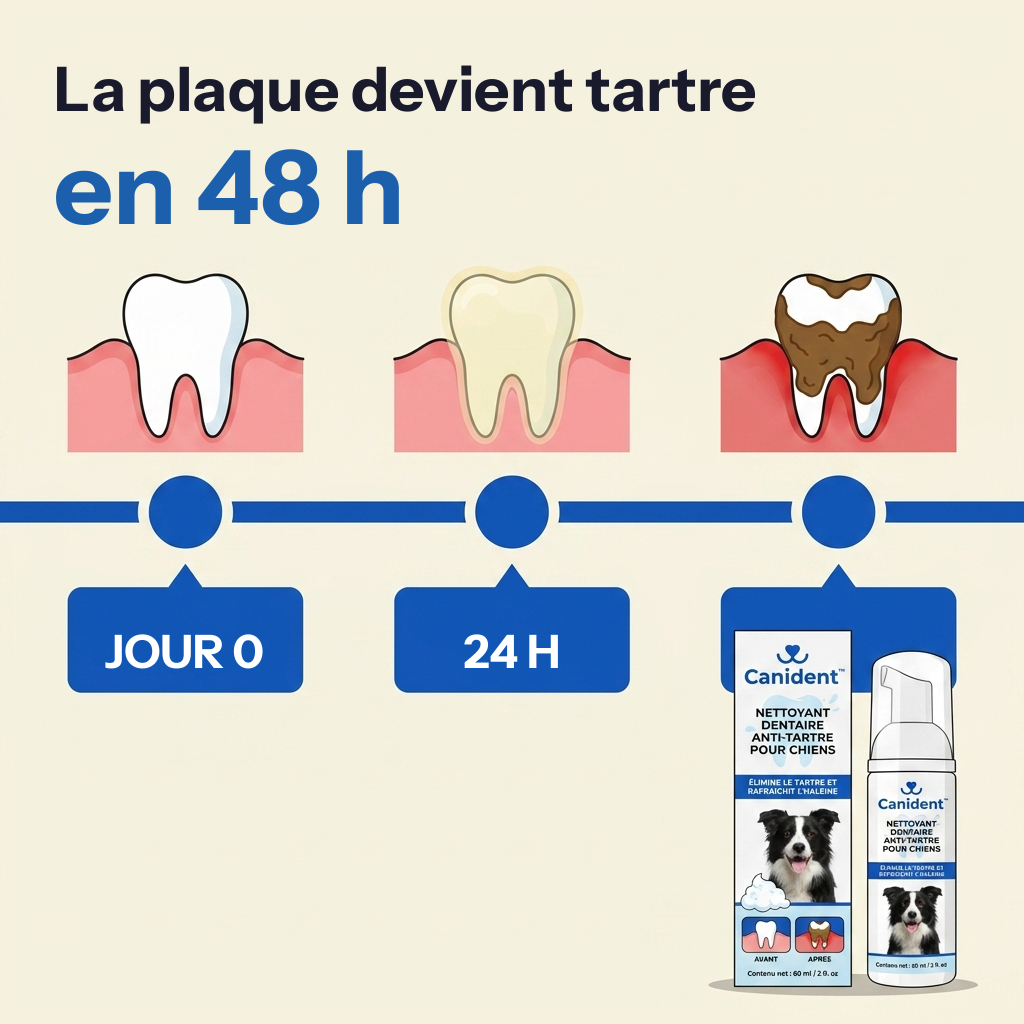
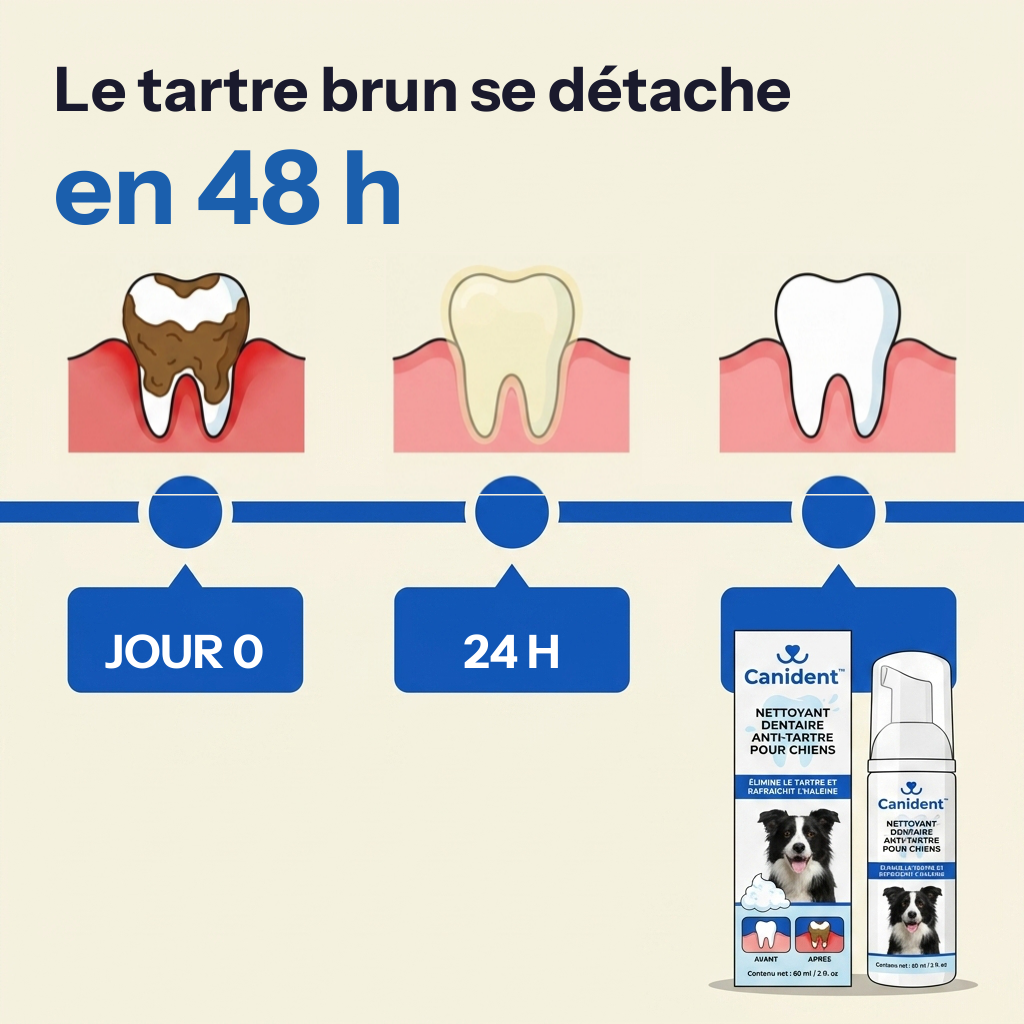
static-remix: check which way a sequence runs, not just its labels
A three-stage timeline shipped showing a dog's tooth getting steadily worse — clean, then
filmed, then heavily encrusted — under JOUR 0 / 24 H / 48 H, with the product pack sitting
at the end of the arrow. The client read it correctly: it looked like the product added
tartar.

Every element checked out on its own, which is why the QC pass let it through. The
headline was verbatim from the advertorial, the stage labels were in the right order, the
illustration was well drawn. The direction was the benefit reversed, and nothing in the
checklist looked at direction. It also broke the batch, because 48 h is the payoff number
in eight other ads here and in the client's hero, sidebar, FAQ and both winners; one ad
where that number means deterioration weakens the claim everything else rests on.

Fixed without spending anything. The three tooth groups sat on flat cream, within three
pixels of each other in width, so groups one and three were cut to their own files, the
slots blanked to the sampled background colour, and the cuts pasted back swapped and
centred — no seam. The sequence now runs heavy to clean, the headline runs the same way,
and the pack ends up beside the clean tooth, which retires an earlier note about it
covering the third marker.

prompting.md gets three notes from this: state what changes between the first and last
panel of any sequence before shipping it; hold one meaning per number across an account,
[…]

Changed region(s): [[0.6875, 0.25, 0.9375, 0.4688], [0.0938, 0.0625, 0.7812, 0.125], [0.0625, 0.25, 0.3125, 0.4688]]

diff --git a/.claude/skills/static-remix/runs/20260821-0902-canident/compose.py b/.claude/skills/static-remix/runs/20260821-0902-canident/compose.py
@@ -88,8 +88,12 @@ def N4_dog_photo_left():
 
 @job
 def N5_48h_timeline():
+    # The sequence runs heavy -> yellow -> clean, so the headline must run in the same
+    # direction. "La plaque devient tartre en 48 h" was verbatim from the funnel but it
+    # pointed the ad at deterioration, with the pack sitting at the bad end of the arrow —
+    # and 48 h is the payoff number everywhere else in this account.
     c = canident_lockup(p("N5_48h_timeline"), None,
-        "La plaque devient tartre", "en 48 h", cta=None, wordmark=None)
+        "Le tartre brun se détache", "en 48 h", cta=None, wordmark=None)
     # the three blue boxes were generated deliberately empty so the stages could be
     # lettered exactly here rather than gambled on the model
     # the third box is covered by the pack — see report.txt; only the visible two are lettered

diff --git a/.claude/skills/static-remix/references/prompting.md b/.claude/skills/static-remix/references/prompting.md
@@ -303,3 +303,49 @@ bottom. Rebuilding on those axes took the same eight arguments from a 0.825 medi
 
 **Never brief a series as "same layout, different illustration".** Brief each one as a
 different picture that happens to share a brand system.
+
+
+## Check which way a sequence runs, not just its labels
+
+A three-stage timeline shipped showing a tooth getting **steadily worse** — clean, then
+filmed, then heavily encrusted — under the labels JOUR 0 / 24 H / 48 H, with the product
+pack sitting at the end of the arrow. The literal message was *"48 hours with this product
+and your dog's teeth look like this."* The client spotted it; the QC pass did not.
+
+Every individual element checked out, which is exactly why it survived: the headline was
+verbatim from the funnel (*"la plaque dentaire peut se transformer en tartre en seulement
+48 heures"*), the stage labels were in the right order, the illustration was well drawn.
+**The direction was the benefit reversed**, and nothing in the checklist looked at
+direction.
+
+Before shipping any timeline, before/after, or multi-panel sequence, say out loud what
+changes between the first panel and the last, and confirm it is the outcome the product
+sells. If the product removes something, the last panel has less of it.
+
+## One number, one meaning per account
+
+The same batch used **48 h** as the payoff in eight ads and as the speed of deterioration
+in one. A number that means "improvement" and "decay" in the same ad account weakens the
+claim the whole campaign rests on. Find the direction the funnel uses — here the hero, the
+sidebar, the FAQ and both winning ads all used 48 h as the payoff — and hold it everywhere.
+
+Problem-agitation ads are still fine; they just have to agitate with a *different* number,
+or with no number at all.
+
+## Swapping panels is free — regenerating is not
+
+That timeline was fixed without spending anything, because flat-ground vector panels are
+separable. Measure the groups by scanning for non-background columns, cut each to its own
+file, blank the slots to the sampled background colour, and paste them back in the order
+you want:
+
+```python
+cream = tuple(c/255 for c in pix.pixel(int(0.02*W), int(0.55*H)))   # sample, never guess
+for a, b in GROUPS:                      # blank
+    page.draw_rect(fitz.Rect(a*W-2, y0-2, b*W+2, y1+2), color=None, fill=cream)
+for src_i, dst_i in ((2, 0), (1, 1), (0, 2)):   # paste back reordered, centred
+    ...
+```
+
+Check the group widths first — if they are within a few pixels of each other, centring each
+cut in its destination slot leaves no visible seam.
